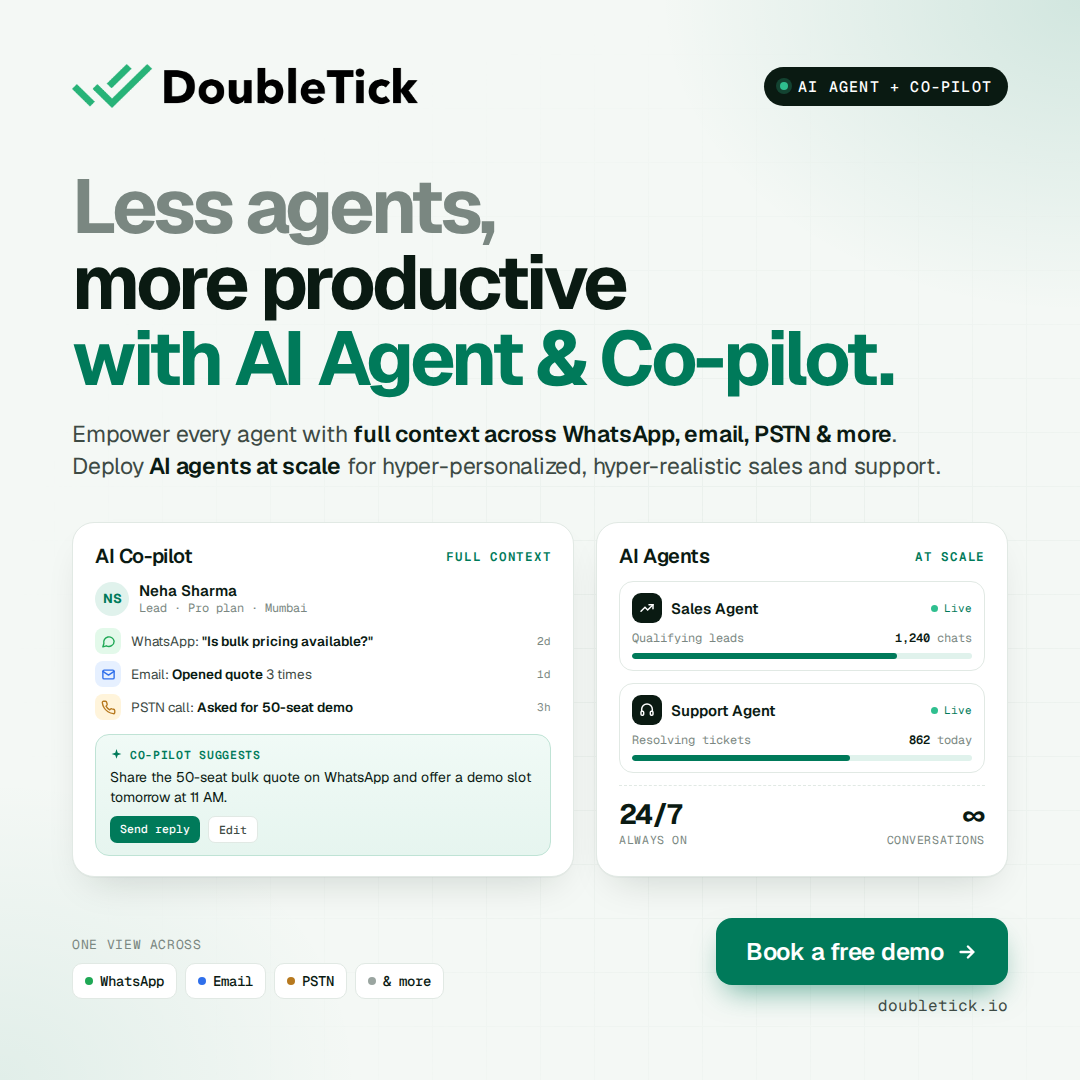
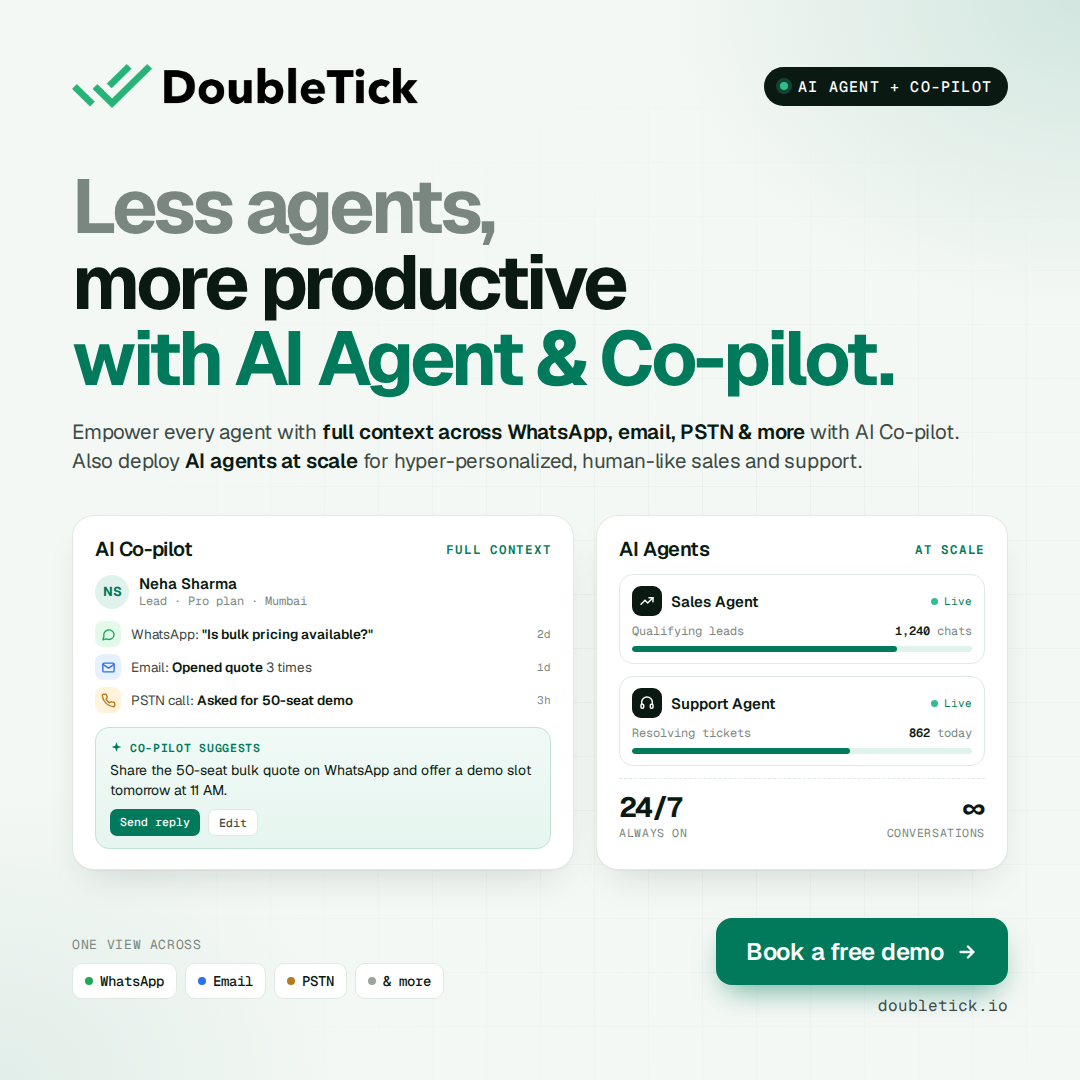
feat: update AI Agent & Co-pilot ad supporting copy
Claude-Session: https://claude.ai/code/session_013Hi5o4KgvuLbKTeGkStAKX

diff --git a/ads/doubletick-ai-agents-copilot/index.html b/ads/doubletick-ai-agents-copilot/index.html
@@ -53,7 +53,7 @@
   h1 { margin-top: 60px; font-size: 76px; line-height: 1.0; letter-spacing: -0.045em; font-weight: 700; }
   h1 .less { color: var(--muted); }
   h1 em { font-style: normal; color: var(--green); }
-  .sub { margin-top: 22px; font-size: 23px; line-height: 1.4; color: var(--ink-2); max-width: 900px; letter-spacing: -0.01em; }
+  .sub { margin-top: 22px; font-size: 20.5px; line-height: 1.4; color: var(--ink-2); max-width: none; letter-spacing: -0.01em; }
   .sub b { color: var(--ink); font-weight: 600; }
 
   /* visual */
@@ -126,7 +126,7 @@
   </div>
 
   <h1><span class="less">Less agents,</span><br/>more productive<br/><em>with AI Agent &amp; Co-pilot.</em></h1>
-  <p class="sub">Empower every agent with <b>full context across WhatsApp, email, PSTN &amp; more</b>. Deploy <b>AI agents at scale</b> for hyper-personalized, hyper-realistic sales and support.</p>
+  <p class="sub">Empower every agent with <b>full context across WhatsApp, email, PSTN &amp; more</b> with AI&nbsp;Co-pilot.<br/>Also deploy <b>AI agents at scale</b> for hyper-personalized, human-like sales and support.</p>
 
   <div class="vis">
     <!-- Co-pilot -->
